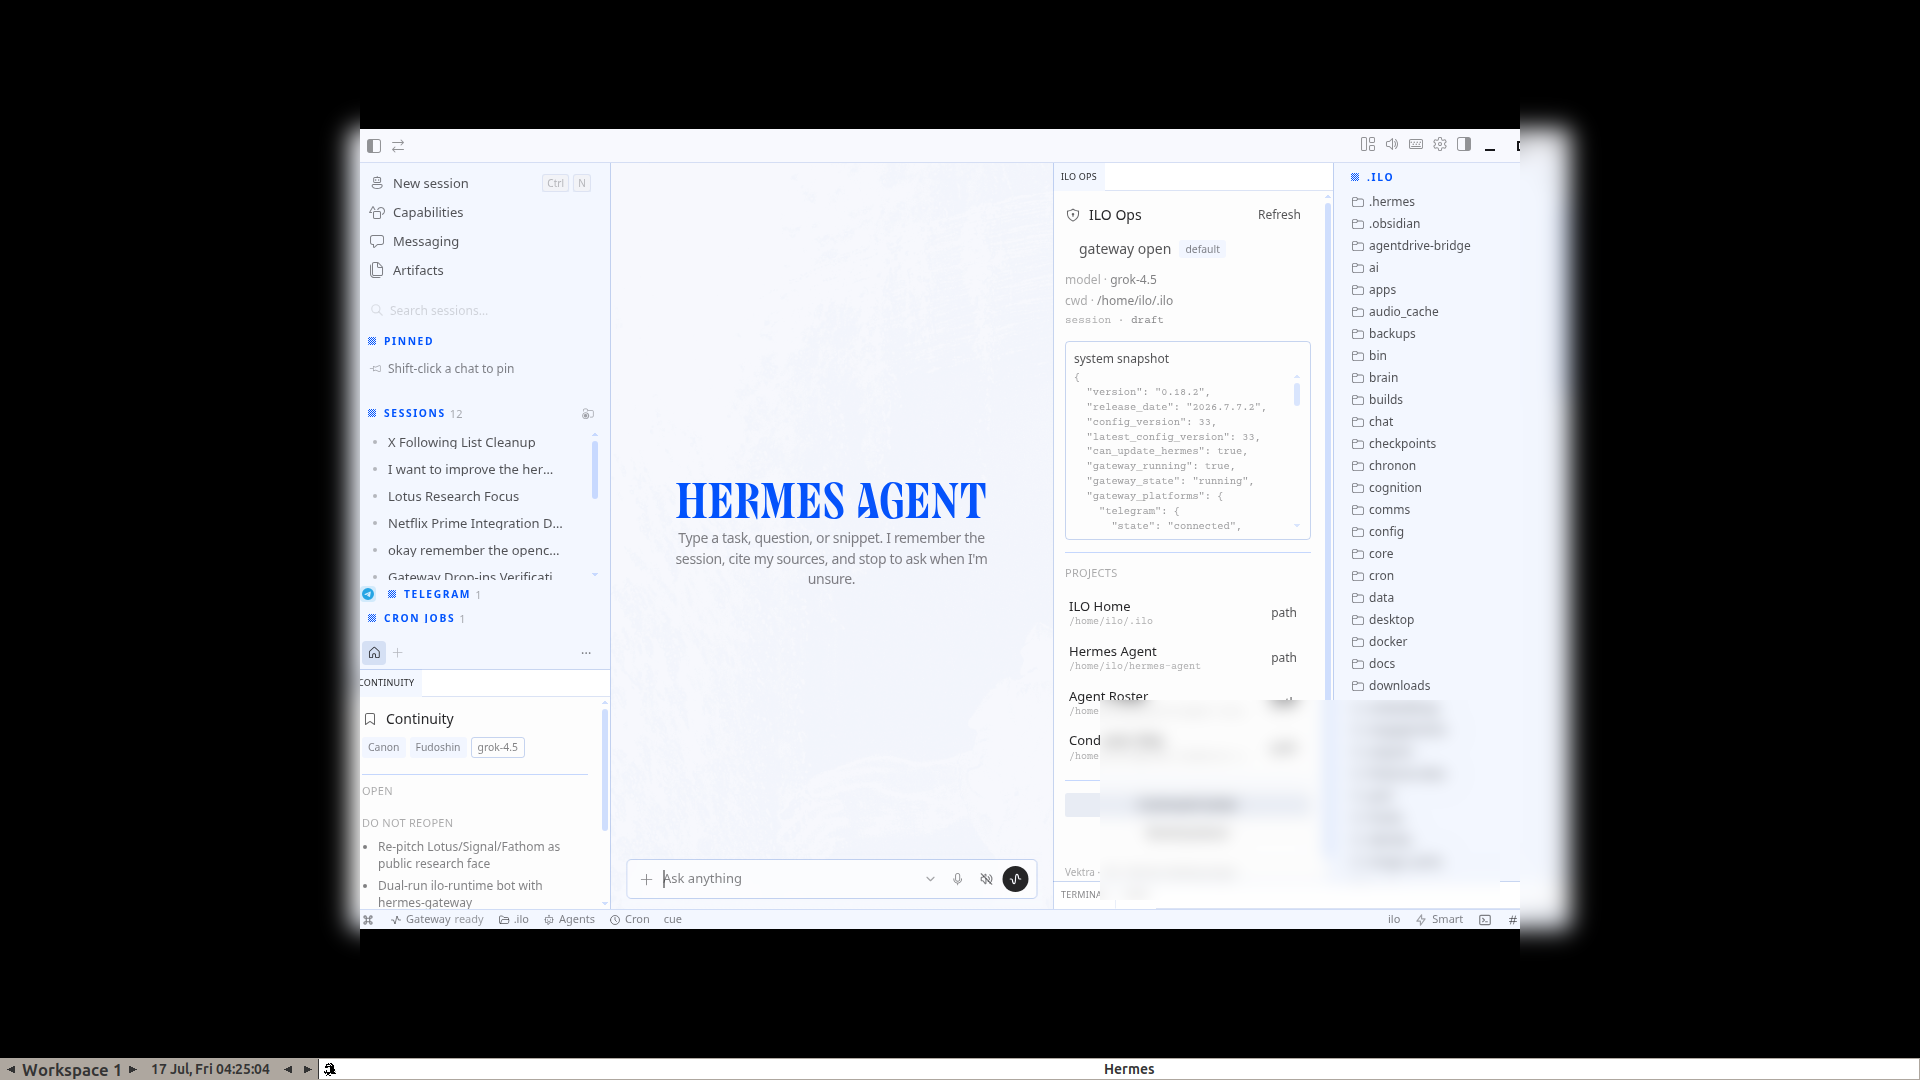
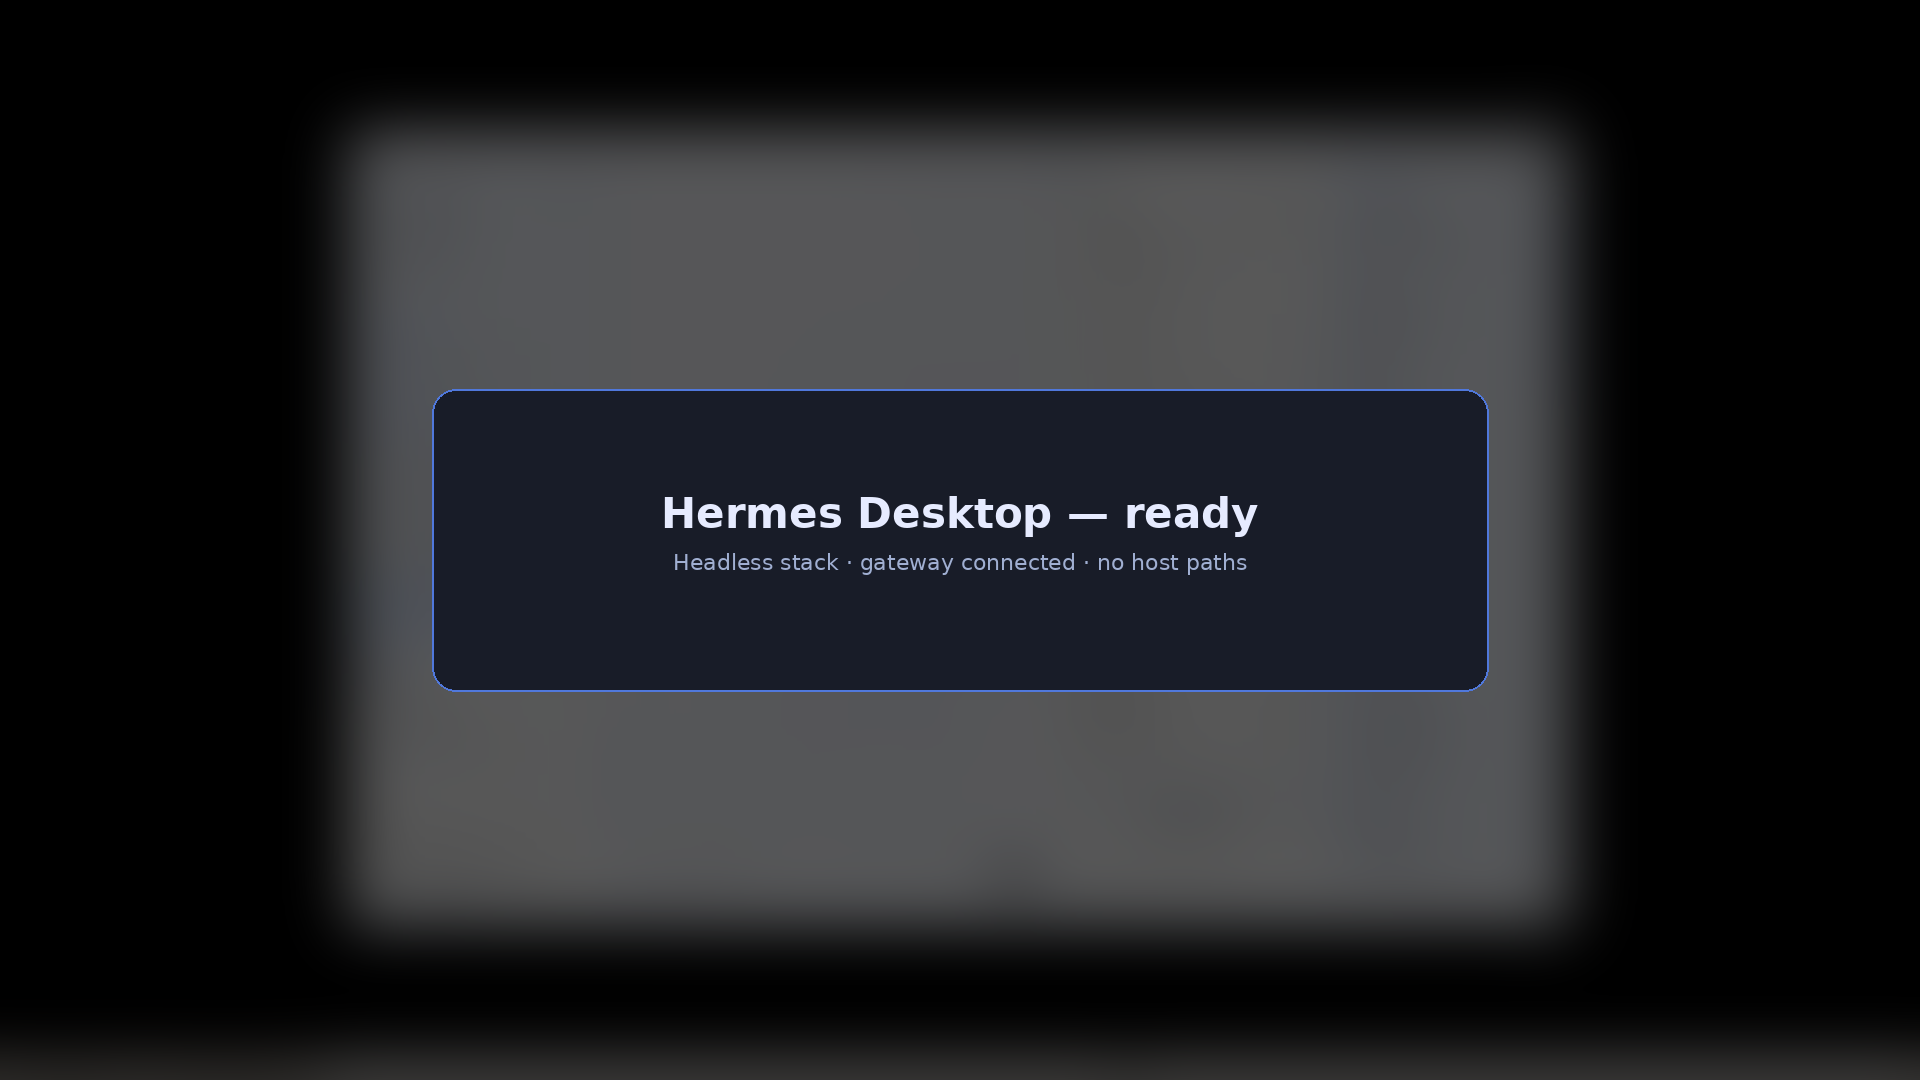
chore: public scrub — no host paths, redacted screenshots, SECURITY.md
Remove /home/ilo hardcodes from hermes-update; replace leaky Desktop
screenshot with fully blurred public card; drop private screenshot files;
add SECURITY.md and tighter gitignore.

diff --git a/SECURITY.md b/SECURITY.md
@@ -1,0 +1,35 @@
+# Security policy
+
+## Supported versions
+
+| Version | Supported |
+|---------|-----------|
+| 0.4.x   | Yes |
+| < 0.4   | Best-effort |
+
+## Reporting a vulnerability
+
+Open a **private** GitHub security advisory on
+[PabloTheThinker/hermes-desktop-headless](https://github.com/PabloTheThinker/hermes-desktop-headless)
+or contact the maintainer via GitHub. Do **not** file a public issue with
+exploit details for auth/bind mistakes.
+
+## Hardening defaults
+
+- Binds **127.0.0.1** only unless you override `HD_BIND`
+- Non-loopback bind **requires** `HD_VNC_PASSWORD_FILE`
+- Prefer SSH tunnel / mesh VPN over public exposure of noVNC
+- VNC without a password on a public interface is **unsafe**
+
+## What not to commit
+
+- Secrets, API tokens, `.env`, VNC password files
+- Hostnames, Tailscale/`100.64.*` addresses, personal home paths
+- Unredacted Desktop screenshots (session titles, `cwd`, project paths)
+
+Run before every push:
+
+```bash
+gitleaks detect --source . --no-git
+git grep -nE '/home/|100\\.64\\.|parallax|SUDO_PASSWORD|BEGIN .*PRIVATE' -- .
+```

diff --git a/ABOUT.md b/ABOUT.md
@@ -39,4 +39,5 @@ Same family of stack used for headless Chrome/CI desktops and “desktop in a ta
 
 ## Maintainers
 
-Pablo Navarro / Vektra — GitHub issues and PRs welcome.
+Maintained under [PabloTheThinker/hermes-desktop-headless](https://github.com/PabloTheThinker/hermes-desktop-headless).
+Issues and PRs welcome. See [SECURITY.md](SECURITY.md) before filing vulnerability details.